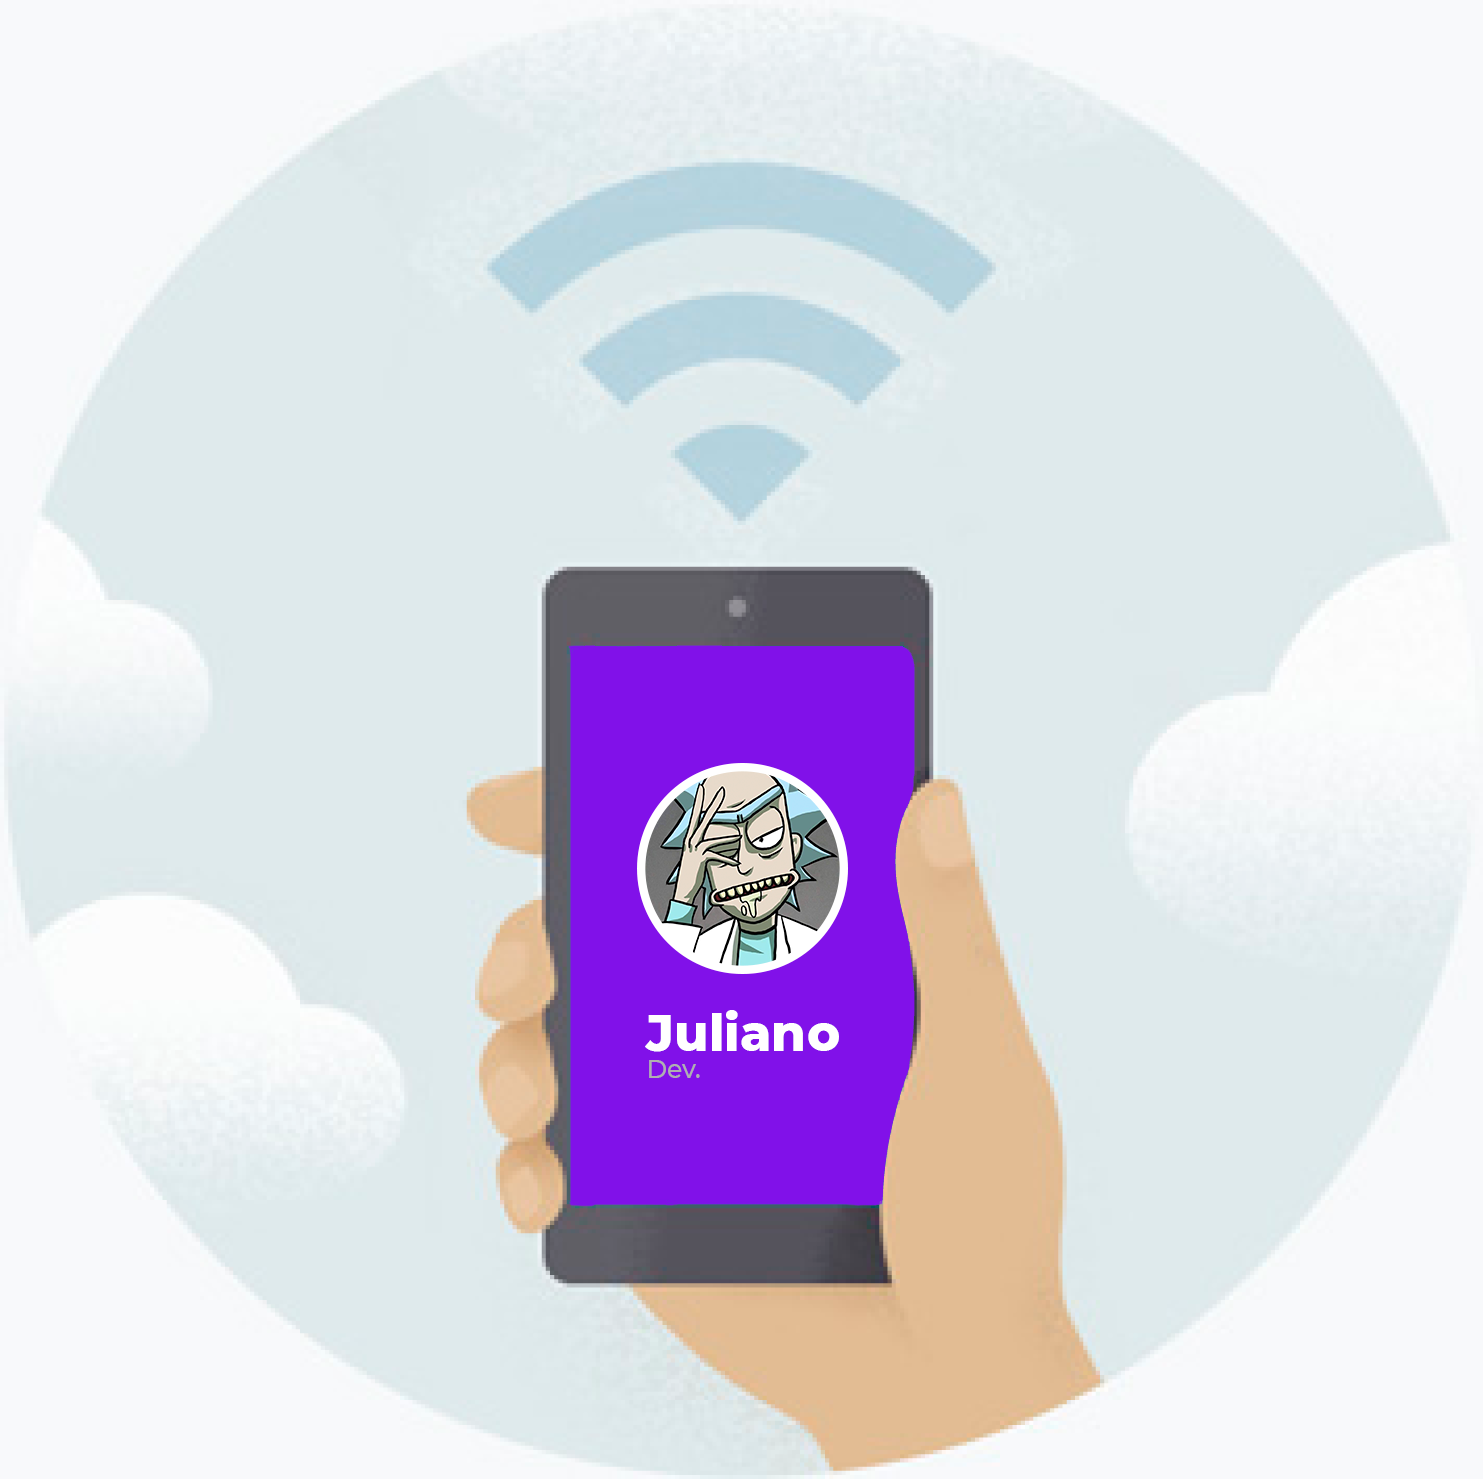
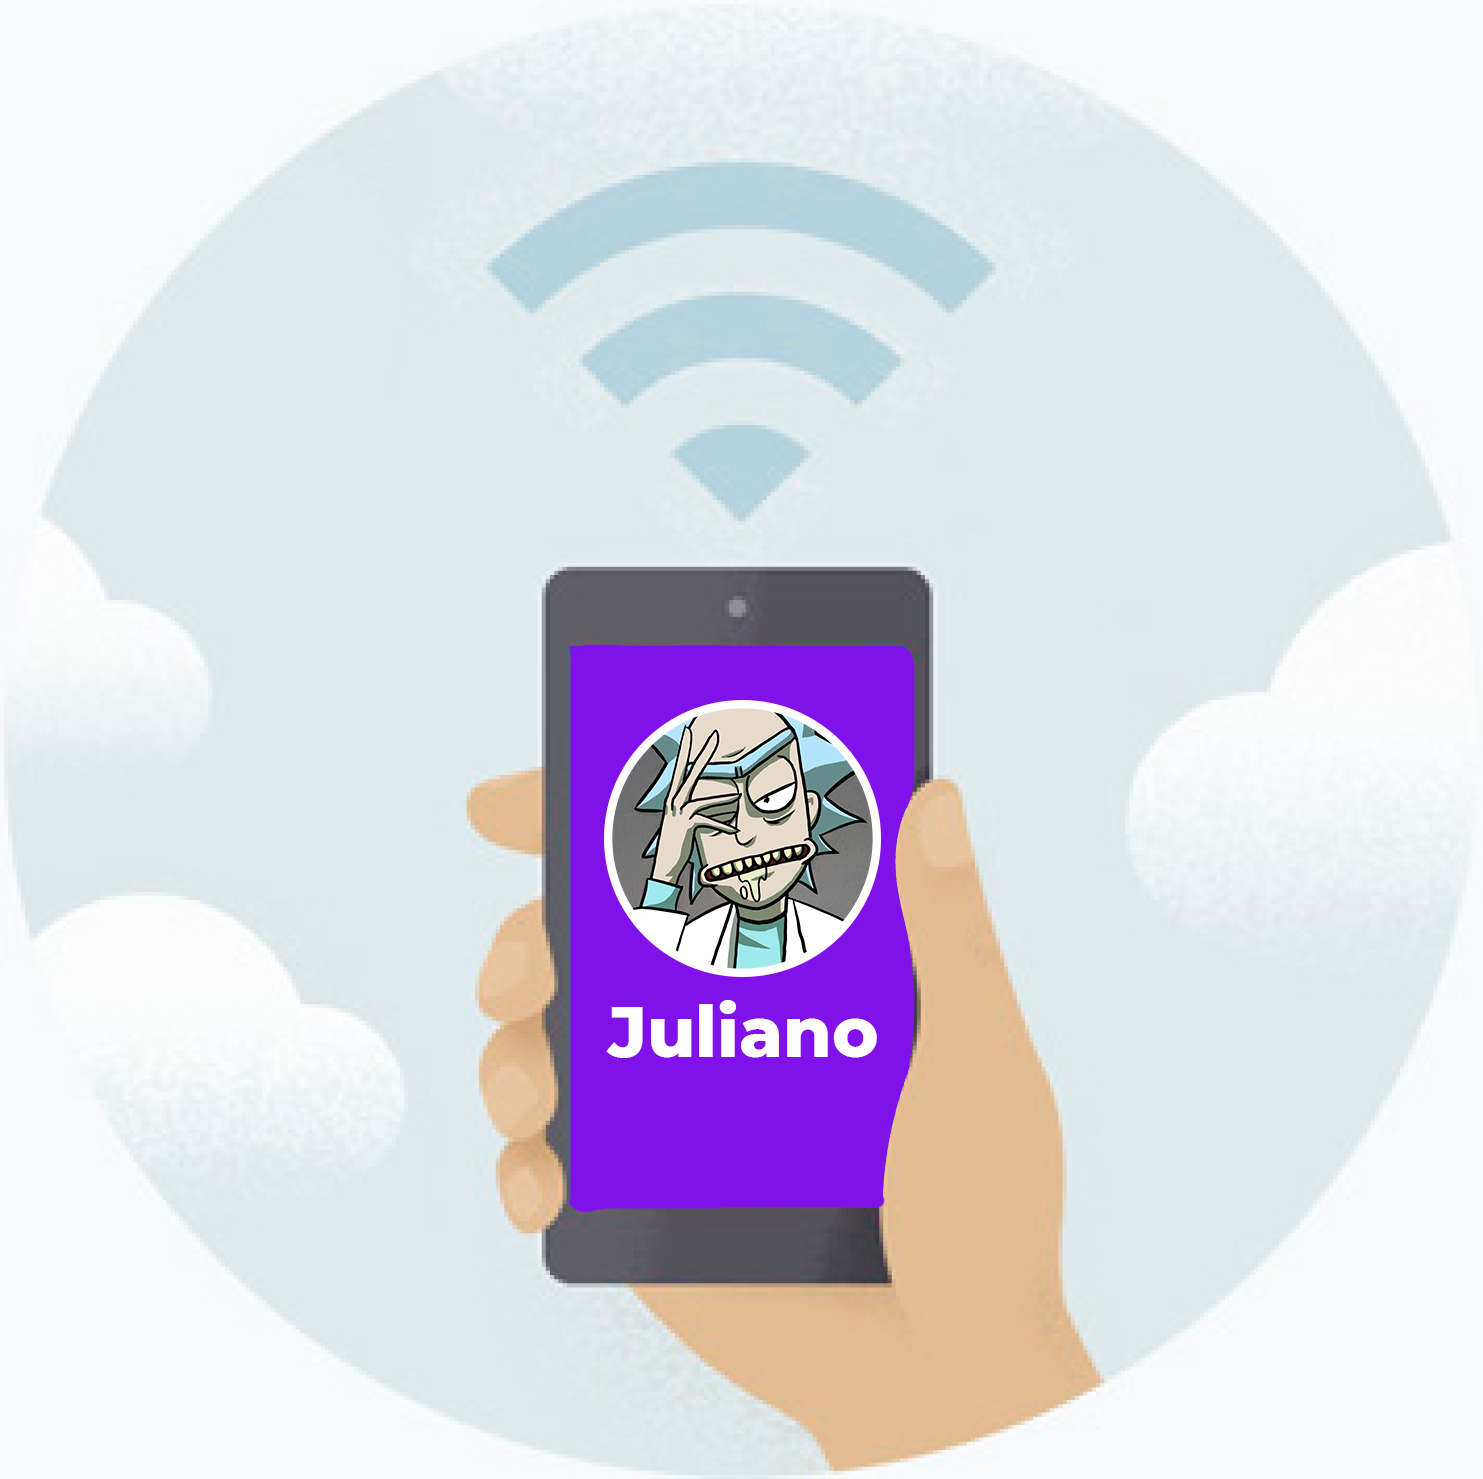
Finish sidebar

Changed region(s): [[0.4032, 0.4665, 0.6204, 0.7465], [0.4032, 0.8087, 0.4963, 0.8398]]

diff --git a/src/components/sidebar/index.js b/src/components/sidebar/index.js
@@ -1,6 +1,25 @@
 import React from 'react';
 
-import { Content } from './styles';
+import { Content, Perfil, PerfilImage, ConfigBox, 
+         Status, 
+         Message, 
+         Config,
+         Search,
+         BoxSearch,
+         ButtonSearch,
+         InputSearch,
+         ContactMessage,
+         ContactMessageItem,
+         ContactInfoBox,
+         ContactImage,
+         ContactTitle,
+         ContactInfo,
+         MessageContact,
+         MessageHour,
+         Hour,
+         MessageSee,
+         BoxMessage 
+        } from './styles';
 
 const Sidebar = () => {
 
@@ -8,7 +27,57 @@ const Sidebar = () => {
   return(
     <>
       <Content>
-        
+        <Perfil>
+          <PerfilImage src="https://avatars2.githubusercontent.com/u/43914533?s=460&v=4"/>
+          <ConfigBox>
+            <Status>
+              <svg xmlns="http://www.w3.org/2000/svg" viewBox="0 0 24 24" width="24" height="24">
+                <path fill="#727A7E" d="M12.072 1.761a10.05 10.05 0 0 0-9.303 5.65.977.977 0 0 0 1.756.855 8.098 8.098 0 0 1 7.496-4.553.977.977 0 1 0 .051-1.952zM1.926 13.64a10.052 10.052 0 0 0 7.461 7.925.977.977 0 0 0 .471-1.895 8.097 8.097 0 0 1-6.012-6.386.977.977 0 0 0-1.92.356zm13.729 7.454a10.053 10.053 0 0 0 6.201-8.946.976.976 0 1 0-1.951-.081v.014a8.097 8.097 0 0 1-4.997 7.209.977.977 0 0 0 .727 1.813l.02-.009z"></path>
+                <path fill="#009588" d="M19 1.5a3 3 0 1 1 0 6 3 3 0 0 1 0-6z"></path>
+              </svg>
+            </Status>
+            <Message>
+              <svg xmlns="http://www.w3.org/2000/svg" viewBox="0 0 24 24" width="24" height="24">
+                <path opacity=".55" fill="#263238" d="M19.005 3.175H4.674C3.642 3.175 3 3.789 3 4.821V21.02l3.544-3.514h12.461c1.033 0 2.064-1.06 2.064-2.093V4.821c-.001-1.032-1.032-1.646-2.064-1.646zm-4.989 9.869H7.041V11.1h6.975v1.944zm3-4H7.041V7.1h9.975v1.944z"></path>
+              </svg>
+            </Message>
+            <Config>
+              <svg xmlns="http://www.w3.org/2000/svg" viewBox="0 0 24 24" width="24" height="24">
+                <path fill="#263238" fill-opacity=".6" d="M12 7a2 2 0 1 0-.001-4.001A2 2 0 0 0 12 7zm0 2a2 2 0 1 0-.001 3.999A2 2 0 0 0 12 9zm0 6a2 2 0 1 0-.001 3.999A2 2 0 0 0 12 15z"></path>
+              </svg>
+            </Config>
+          </ConfigBox>
+        </Perfil>
+        <Search>
+          <BoxSearch>
+            <ButtonSearch>
+            <svg xmlns="http://www.w3.org/2000/svg" viewBox="0 0 24 24" width="24" height="24"><path fill="#263238" fill-opacity=".3" d="M15.009 13.805h-.636l-.22-.219a5.184 5.184 0 0 0 1.256-3.386 5.207 5.207 0 1 0-5.207 5.208 5.183 5.183 0 0 0 3.385-1.255l.221.22v.635l4.004 3.999 1.194-1.195-3.997-4.007zm-4.808 0a3.605 3.605 0 1 1 0-7.21 3.605 3.605 0 0 1 0 7.21z"></path></svg>
+            </ButtonSearch>
+            <InputSearch placeholder="Procurar ou começar uma nova conversa"/>
+          </BoxSearch>
+        </Search>
+        <ContactMessage>
+          <ContactMessageItem>
+            <ContactInfoBox>
[1 lines of base64/hex data omitted]
+              <ContactInfo>
+                <ContactTitle>Steve Jobs</ContactTitle>
+                <BoxMessage>
+                  <MessageSee>
+                    <svg xmlns="http://www.w3.org/2000/svg" viewBox="0 0 18 18" width="18" height="18">
+                      <path fill="#263238" fill-opacity=".4" d="M17.394 5.035l-.57-.444a.434.434 0 0 0-.609.076l-6.39 8.198a.38.38 0 0 1-.577.039l-.427-.388a.381.381 0 0 0-.578.038l-.451.576a.497.497 0 0 0 .043.645l1.575 1.51a.38.38 0 0 0 .577-.039l7.483-9.602a.436.436 0 0 0-.076-.609zm-4.892 0l-.57-.444a.434.434 0 0 0-.609.076l-6.39 8.198a.38.38 0 0 1-.577.039l-2.614-2.556a.435.435 0 0 0-.614.007l-.505.516a.435.435 0 0 0 .007.614l3.887 3.8a.38.38 0 0 0 .577-.039l7.483-9.602a.435.435 0 0 0-.075-.609z"></path>
+                    </svg>
+                  </MessageSee>
+                  <MessageContact>Voando alto em mlq!</MessageContact>
+                </BoxMessage>
+              </ContactInfo>
+            </ContactInfoBox>
+            <MessageHour>
+              <Hour>23:00</Hour>
+            </MessageHour>
+          </ContactMessageItem>
+          
+        </ContactMessage>
       </Content>
     </>
   )

diff --git a/src/components/sidebar/styles.js b/src/components/sidebar/styles.js
@@ -6,3 +6,181 @@ export const Content = styled.div`
 
 
 `;
+
+export const Perfil = styled.div`
+
+  background-color: #f3f3f3;
+  padding: .58rem .9rem;
+  display: flex;
+  justify-content: space-between;
+  align-items: center;
+
+`;
+
+export const PerfilImage = styled.img`
+
+  height: 45px;
+  width: 45px;
+  border-radius: 50%;
+
+
+`;
+
+export const ConfigBox = styled.div`
+
+  display: flex;
+  justify-content: space-between;
+  align-items: center;
+  width: 120px;
+  margin-right: 1rem;
+
+`;
+
+export const Status = styled.span `
+    cursor: pointer;
+`;
+
+export const Message = styled.span`
+    cursor: pointer;
+`;
+
+
+export const Config = styled.span`
+    cursor: pointer;
+`;
+
+export const Search = styled.div`
+    border-bottom: 1px solid #d5dfe3;
+    padding: .5rem .8rem;
+    background-color: #fcfcfc;
+
+`;
+
+export const BoxSearch = styled.div`
+
+    background-color: #fff;
+    padding: .9rem;
+    border: 1px solid #fefefe;
+    display: flex;
+    justify-content: space-between;
+    align-items: center;
+    border-radius: 15px;
+
+`;
+
+export const ButtonSearch = styled.button`
+
+    border: none;
+    background: none;
+    cursor: pointer;
+
+`;
+
+export const InputSearch = styled.input`
+
+    width: 90%;
+    padding: .4rem 0;
+    border: none;
+    color: #7f7f7f;
+    font-family: 'Roboto', Arial, Helvetica, sans-serif;
+    font-size: .9rem;
+
+    &::placeholder {
+      font-family: 'Roboto', Arial, Helvetica, sans-serif;
+      font-size: .9rem;
+      line-height: 20px;
+    }
+
+`;
+
+export const ContactMessage = styled.div`
+
+
+
+`;
+
+export const ContactMessageItem = styled.div`
+
+    padding: .9rem .8rem;
+    display: flex;
+    justify-content: space-between;
+    cursor: pointer;
+    transition: all 0.1s;
+
+    &:hover {
+      background-color: #f7f7f7;
+    }
+
+`;
+
+export const ContactInfoBox = styled.div`
+
+      display: flex;
+      align-items: center;
+      justify-content: space-between;
+      width: 210px;
+
+`;
+
+export const ContactImage = styled.img`
+
+    width: 60px;
+    height: 60px;
+    border-radius: 100%;
+
+
+`;
+
+export const ContactTitle = styled.h3`
+
+
+
+`;
+
+export const ContactInfo = styled.div`
+
+    margin-left: 11px;
+
+`;
+
+export const MessageContact = styled.p`
+
+      color: #999;
+      width: 250px;
+
+`;
+
+export const MessageHour = styled.div`
+
+
+`;
+
+export const Hour = styled.p`
+
+    color: #999;
+
+`;
+
+export const MessageSee = styled.span`
+
+    margin: 0;
+    padding: 0;
+    padding-right: 5px;
+
+    svg {
+      padding: 0;
+      margin: 0;
+      outline: 0;
+    }
+
+`;
+
+
+export const BoxMessage = styled.div`
+
+    display: flex;
+    align-items: center;
+    padding: 4px 0;
+
+
+`;

diff --git a/public/index.html b/public/index.html
@@ -10,34 +10,13 @@
       content="Web site created using create-react-app"
     />
     <link rel="apple-touch-icon" href="%PUBLIC_URL%/logo192.png" />
-    <!--
-      manifest.json provides metadata used when your web app is installed on a
-      user's mobile device or desktop. See https://developers.google.com/web/fundamentals/web-app-manifest/
-    -->
+    
     <link rel="manifest" href="%PUBLIC_URL%/manifest.json" />
-    <!--
-      Notice the use of %PUBLIC_URL% in the tags above.
-      It will be replaced with the URL of the `public` folder during the build.
-      Only files inside the `public` folder can be referenced from the HTML.
-
-      Unlike "/favicon.ico" or "favicon.ico", "%PUBLIC_URL%/favicon.ico" will
-      work correctly both with client-side routing and a non-root public URL.
-      Learn how to configure a non-root public URL by running `npm run build`.
-    -->
-    <title>React App</title>
+   
+    <title>Whatsapp Clone</title>
   </head>
   <body>
-    <noscript>You need to enable JavaScript to run this app.</noscript>
     <div id="root"></div>
-    <!--
-      This HTML file is a template.
-      If you open it directly in the browser, you will see an empty page.
-
-      You can add webfonts, meta tags, or analytics to this file.
-      The build step will place the bundled scripts into the <body> tag.
-
-      To begin the development, run `npm start` or `yarn start`.
-      To create a production bundle, use `npm run build` or `yarn build`.
-    -->
+    
   </body>
 </html>

diff --git a/src/components/home/index.js b/src/components/home/index.js
@@ -33,7 +33,7 @@ const Home = () => {
             <Info>
              O WhatsApp está disponível para Windows. 
             </Info>
-            <InfoLink>
+            <InfoLink href="https://github.com/julianoalvescode/whatsapp-clone" target="_blank">
               Obtenha-o aqui
             </InfoLink>
           </BoxInfo>

diff --git a/src/components/home/styles.js b/src/components/home/styles.js
@@ -40,10 +40,11 @@ export const Info = styled.p `
 
 `
 
-export const InfoLink = styled.a `
+export const InfoLink = styled.a`
 
   text-decoration: none;
   color: #81259D;
+  cursor: pointer;
 
 
 `

diff --git a/src/assets/styles/style.js b/src/assets/styles/style.js
@@ -5,7 +5,6 @@ export const Content = styled.main`
 
   display: flex;
   justify-content: center;
-  align-items: center;
   height: 100%;
 
 `;

diff --git a/README.md b/README.md
@@ -7,7 +7,7 @@
 </h3>
 
 ## Visão Geral 👀
-Interface  do whatsapp com componentes simples , reutilizáveis e clean code.
+Interface do web whatsapp com componentes simples, reutilizáveis e clean code.
 
 ## Dependênciais 🚀
 
